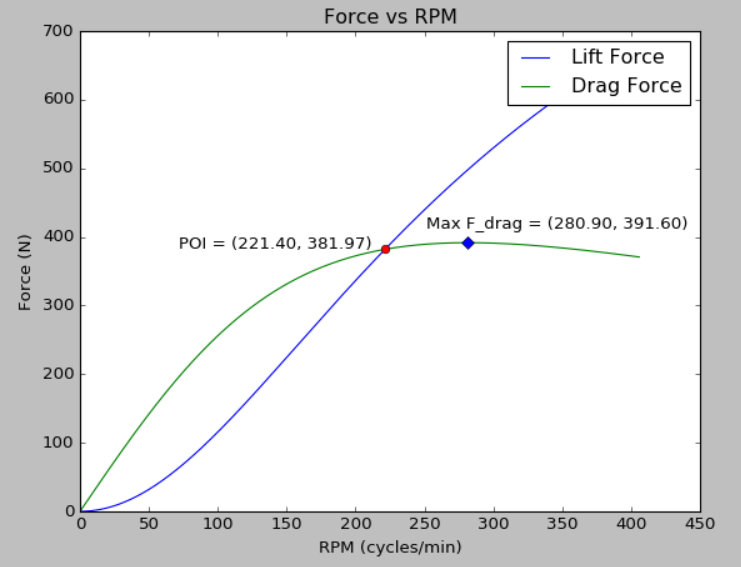
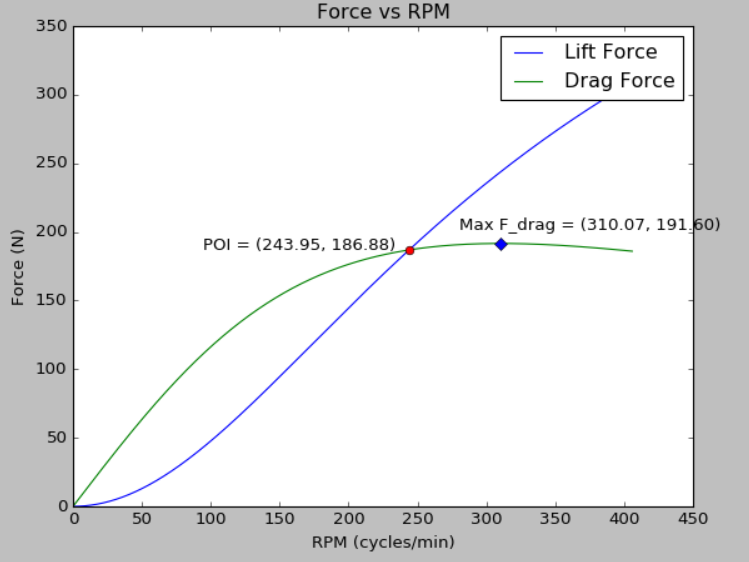
Update screenshots

diff --git a/main.py b/main.py
@@ -62,11 +62,11 @@ def getMax(f):
 
 # CONTROLS
 display_points = True       # display POI and max/min
-display_labels = False      # display labels for points
-ZOOM = False                # zoom in to key points
+display_labels = True      # display labels for points
+ZOOM = True                # zoom in to key points
 F_var = "rpm"               # v or rpm
 START = 0.001
-END = 4000                  # RPM (default)
+END = 6500                  # RPM (default)
 if ZOOM:
     END /= 16
 if F_var == "v":
@@ -104,5 +104,5 @@ if display_points:
     if display_labels:
         plt.annotate('POI = (' + str('{0:.2f}'.format(POI_x)) + ', ' + str('{0:.2f}'.format(POI_y)) + ')', xy=(2, 1), xytext=(POI_x - 150, POI_y))
         plt.annotate('Max F_drag = (' + str('{0:.2f}'.format(max_drag_x)) + ', ' + str('{0:.2f}'.format(max_drag_y)) + ')',
-                     xy=(2, 1), xytext=(max_drag_x - 30, max_drag_y + 20))
+                     xy=(2, 1), xytext=(max_drag_x - 30, max_drag_y + 10))
 plt.show()
